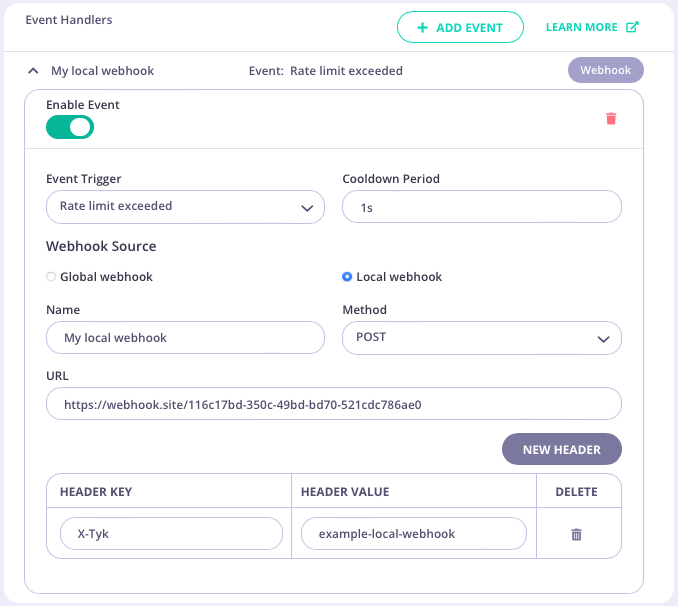
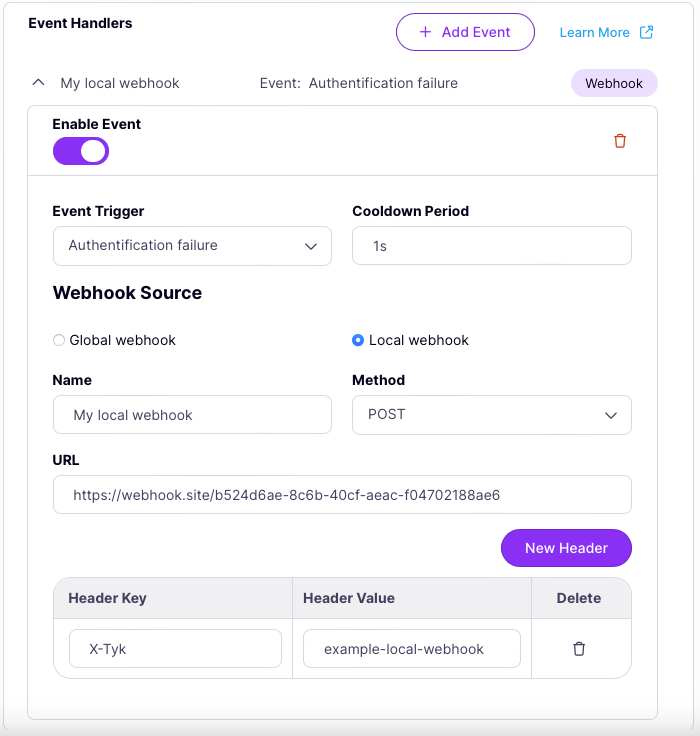
Updated event handling for 5.5 UI

diff --git a/tyk-docs/content/product-stack/tyk-gateway/basic-config-and-security/report-monitor-and-trigger-events/event-webhook-tyk-oas.md b/tyk-docs/content/product-stack/tyk-gateway/basic-config-and-security/report-monitor-and-trigger-events/event-webhook-tyk-oas.md
@@ -169,7 +169,7 @@ If you want to use a *global webhook* then you'll need to declare it first, foll
 
 #### Step 1: Add event handler
 
-From the **Settings** tab in the API Designer, scroll down to the **Server** section to find the **Event Handlers** pane. Select **ADD EVENT**.
+From the **Settings** tab in the API Designer, scroll down to the **Server** section to find the **Event Handlers** pane. Select **Add Event**.
 
 {{< img src="/img/dashboard/api-designer/tyk-oas-webhook-server.png" alt="Add an event handler from the Server section" >}}
 
@@ -191,7 +191,7 @@ Note that Tyk automatically retrieves the details of the *global webhook* and di
 
 {{< img src="/img/dashboard/api-designer/tyk-oas-webhook-global-complete.png" alt="A fully configured global webhook" >}}
 
-Don't forget to select **SAVE API** to apply the changes.
+Don't forget to select **Save API** to apply the changes.
 
 #### Step 3b: Configure local webhook
 
@@ -199,8 +199,8 @@ If you don't want to use a shared *global webhook* but instead want to configure
 
 {{< img src="/img/dashboard/api-designer/tyk-oas-webhook-local.png" alt="Ready to configure a local webhook">}}
 
-Now you can complete the various fields to set up your *local webhook*. If you want to add custom headers to send with the HTTP request, select **NEW HEADER** then enter the header key and value.
+Now you can complete the various fields to set up your *local webhook*. If you want to add custom headers to send with the HTTP request, select **New Header** then enter the header key and value.
 
 {{< img src="/img/dashboard/api-designer/tyk-oas-webhook-local-complete.png" alt="A fully configured global webhook" >}}
 
-Don't forget to select **SAVE API** to apply the changes.
+Don't forget to select **Save API** to apply the changes.

diff --git a/tyk-docs/content/product-stack/tyk-gateway/basic-config-and-security/report-monitor-and-trigger-events/event-webhook-tyk-classic.md b/tyk-docs/content/product-stack/tyk-gateway/basic-config-and-security/report-monitor-and-trigger-events/event-webhook-tyk-classic.md
@@ -79,8 +79,8 @@ Now:
 - select the *API Event* for which you want to trigger the webhook from the dropdown list
 - select the *Webhook to use* when the event fires, again from the dropdown list
 - finally, configure the required *Cooldown period*
-- click **ADD**
+- click **Add**
 
 Note that you can register multiple webhooks to be triggered in response to a single event and you can register the same webhook with multiple API events.
 
-Remember to click **UPDATE** to save your changes.
+Remember to click **Save** to save your changes.

diff --git a/tyk-docs/content/basic-config-and-security/report-monitor-trigger-events/webhooks.md b/tyk-docs/content/basic-config-and-security/report-monitor-trigger-events/webhooks.md
@@ -98,7 +98,7 @@ Select **Webhooks** from the **API Management** Menu:
 
 {{< img src="/img/2.10/webhooks_menu.png" alt="Webhooks menu item" >}}
 
-Click **ADD WEBHOOK**.
+Click **Add Webhook**.
 
 {{< img src="/img/2.10/add_webhook.png" alt="Add webhook button" >}}
 
@@ -108,7 +108,7 @@ Now you need to tell Tyk how and where to send the request. You can include cust
 
 {{< img src="/img/2.10/webhook_details.png" alt="Add webhook detail" >}}
 
-Click **SAVE** to save it.
+Click **Save** to save it.
 
 <hr>
 
